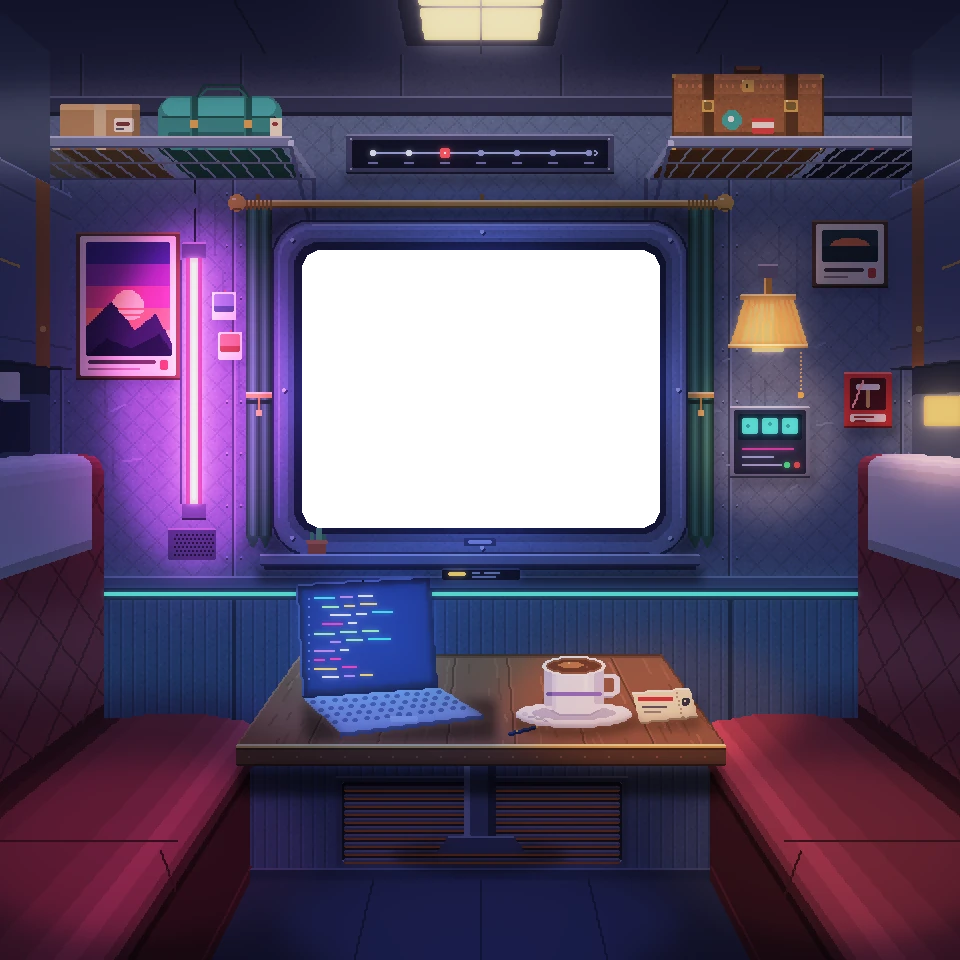
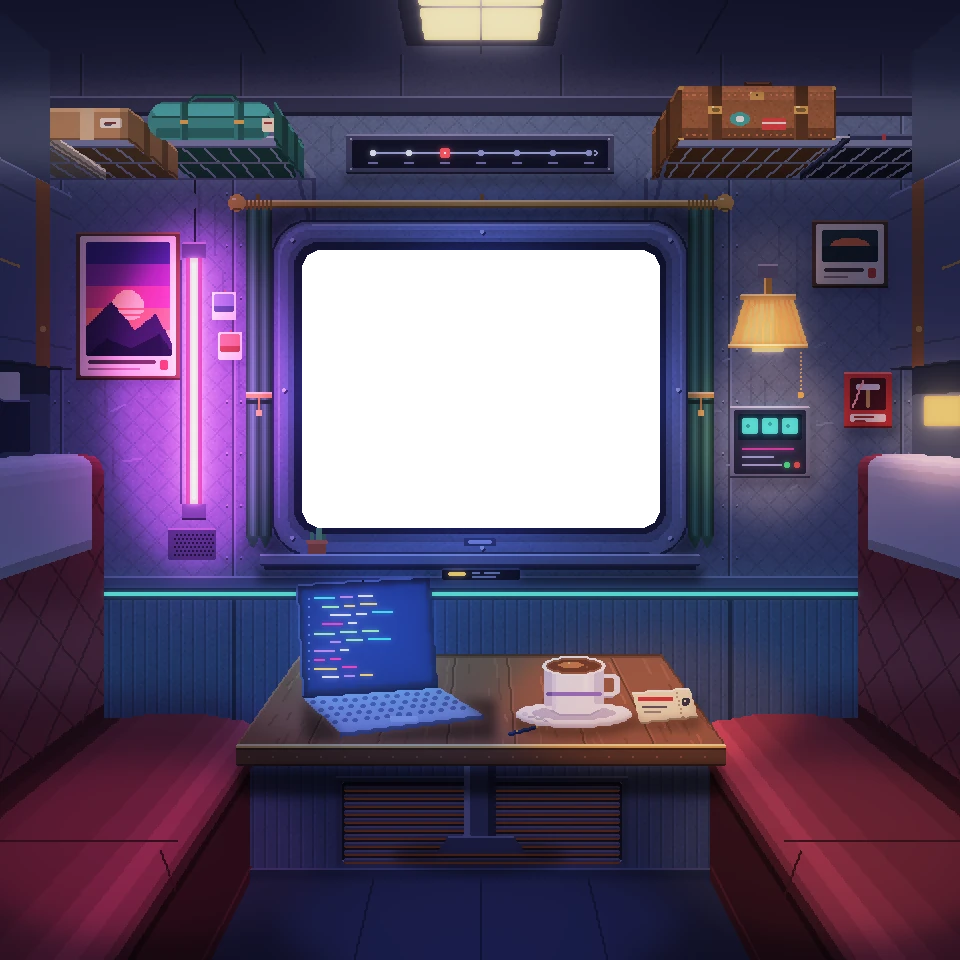
art(1.4): flatten the luggage, give it sides, keep the rack out of its sprite
Luggage laid on a rack is lower than it is wide. Each piece is now drawn at 68%
of the height it was written at, so all of it sits inside the frame.

Each piece gets the side that faces the middle of the compartment, running
back to the wall: its body colour in shade, a lit top edge, a dark foot and,
on the larger pieces, two bands carried round from the front. Until now only
fronts and undersides were drawn, which no solid object shows.

Focusing the briefcase lifted the rack's slats and rail with it, because they
were drawn across its foot and the sprite is cut from the finished picture.
The luggage now overhangs the front rail by a centimetre and the racks are
drawn before the luggage's visible faces, so nothing of the rack crosses a
piece and the briefcase's sprite is the briefcase alone, side included.

The canvas wrapper gains flatten() for the first of these.

Changed region(s): [[0.6562, 0.0625, 0.9375, 0.1875], [0.0312, 0.0938, 0.3438, 0.1875]]

diff --git a/src/scene/geometry.gen.ts b/src/scene/geometry.gen.ts
@@ -29,6 +29,6 @@ export const OBJECTS: Record<string, ObjectGeometry> = {
   cover: { zone: [142, 116, 338, 272], light: { x: 240, y: 194, rx: 108, ry: 84 } },
   projects: { zone: [137, 279, 252, 376], light: { x: 195, y: 328, rx: 62, ry: 52 }, box: { x: 148, y: 288, w: 94, h: 81 }, sprite: '/assets/obj-projects.webp' },
   about: { zone: [306, 336, 358, 370], light: { x: 332, y: 353, rx: 30, ry: 20 }, box: { x: 316, y: 344, w: 33, h: 18 }, sprite: '/assets/obj-about.webp' },
-  stack: { zone: [324.9162, 23.4303, 423.2402, 83.7655], light: { x: 374.0782, y: 55.8326, rx: 53.6313, ry: 31.2849 }, box: { x: 336, y: 33, w: 76, h: 42 }, sprite: '/assets/obj-stack.webp' },
+  stack: { zone: [327.8613, 16.9664, 429.5954, 79.3941], light: { x: 378.7283, y: 50.4924, rx: 55.4913, ry: 32.3699 }, box: { x: 326, y: 41, w: 92, h: 49 }, sprite: '/assets/obj-stack.webp' },
   journey: { zone: [166, 60, 300, 94], light: { x: 240, y: 77, rx: 78, ry: 18 }, box: { x: 173, y: 67, w: 134, h: 20 }, sprite: '/assets/obj-journey.webp' },
 };

diff --git a/tools/art/room.py b/tools/art/room.py
@@ -75,7 +75,8 @@ ROOM_CEILING = 2.30
 # above the window. Shallow enough to reach from the seat below.
 RACK_DEPTH = 0.26
 RACK_INNER = 0.46  # each rack runs from here to the side wall
-LUGGAGE_Z = WALL_DIST - 0.21  # the front of the luggage: it stands this far from the camera
+LUGGAGE_Z = WALL_DIST - RACK_DEPTH - 0.01  # the luggage's front: it overhangs the front rail a little
+LUGGAGE_FLAT = 0.68  # luggage lies flat on the rack: this much of the height it was written at
 
 
 def vanishing_point():
@@ -171,22 +172,32 @@ class Off:
     not, because they are not part of an object's outline. build.py turns the masks
     into the objects' sprites and bounding boxes."""
 
-    def __init__(self, cv, dx=0, dy=0, tag=None, masks=None, k=1.0):
-        self.cv, self.dx, self.dy, self.tag, self.k = cv, dx, dy, tag, k
+    def __init__(self, cv, dx=0, dy=0, tag=None, masks=None, k=1.0, flat=(1.0, 0)):
+        self.cv, self.dx, self.dy, self.tag, self.k, self.flat = cv, dx, dy, tag, k, flat
         self.masks = {} if masks is None else masks
 
     def at(self, dx, dy, tag=None):
         """The same canvas shifted by (dx, dy), recording into silhouette `tag`."""
-        return Off(self.cv, self.dx + dx, self.dy + dy, tag, self.masks, self.k)
+        return Off(self.cv, self.dx + dx, self.dy + dy, tag, self.masks, self.k, self.flat)
 
     def depth(self, z):
         """The same canvas for art standing z metres from the camera instead of
         on the window wall: everything is scaled about the vanishing point."""
-        return Off(self.cv, self.dx, self.dy, self.tag, self.masks, WALL_DIST / z)
+        return Off(self.cv, self.dx, self.dy, self.tag, self.masks, WALL_DIST / z, self.flat)
+
+    def flatten(self, f, foot):
+        """The same canvas with art squashed to f of its height toward the line
+        y = foot it stands on, in the coordinates the art was written in."""
+        return Off(self.cv, self.dx, self.dy, self.tag, self.masks, self.k, (f, foot))
+
+    @property
+    def plain(self):
+        return self.k == 1.0 and self.flat[0] == 1.0
 
     # ---- scene coordinates to canvas pixels
     def _xy(self, x, y):
-        x, y = x + self.dx, y + self.dy
+        f, foot = self.flat
+        x, y = x + self.dx, foot + (y - foot) * f + self.dy
         if self.k != 1.0:
             vx, vy = vanishing_point()
             x, y = vx + (x - vx) * self.k, vy + (y - vy) * self.k
@@ -194,14 +205,14 @@ class Off:
 
     def _r(self, x, y, w, h):
         """A rectangle as canvas x, y, w, h; whole pixels once scaled."""
-        if self.k == 1.0:
+        if self.plain:
             return (x + self.dx + OX, y + self.dy, w, h)
         (x0, y0), (x1, y1) = self._xy(x, y), self._xy(x + w, y + h)
         x0, y0, x1, y1 = round(x0), round(y0), round(x1), round(y1)
         return (x0, y0, max(1, x1 - x0) if w > 0 else 0, max(1, y1 - y0) if h > 0 else 0)
 
     def _p(self, pts):
-        if self.k == 1.0:
+        if self.plain:
             return [self._xy(x, y) for x, y in pts]
         return [tuple(round(v) for v in self._xy(x, y)) for x, y in pts]
 
@@ -441,13 +452,35 @@ def rack(g, rnd):
     # foot at y = 92; it is drawn LUGGAGE_Z from the camera instead, standing on
     # the rack, so it is scaled about the vanishing point and lifted to the
     # rack's level. From below, its underside shows between its front and the wall.
+    # It is also flattened: bags laid on a rack are lower than they are wide.
     D = WALL_DIST
-    lug = g.at(0, -3).depth(LUGGAGE_Z)
+    lug = g.flatten(LUGGAGE_FLAT, 92).at(0, -3).depth(LUGGAGE_Z)
     bx, rl, um = lug.at(24, 0), lug.at(22, 0), lug.at(2, 0)
-    for x0, x1, c in ((28, 52, (226, 222, 210)), (52, 88, (176, 138, 98)), (96, 151, (60, 140, 138)),
-                      (326, 394, (150, 96, 62)), (400, 448, (44, 50, 84))):
+    # x0, x1, height as written, colour, silhouette tag
+    pieces = ((28, 52, 6, (226, 222, 210), None), (52, 88, 20, (176, 138, 98), None), (96, 151, 24, (60, 140, 138), None),
+              (326, 394, 34, (150, 96, 62), 'stack'), (400, 448, 4, (44, 50, 84), None))
+    for x0, x1, h, c, tag in pieces:
         xa, xb = (x0 - 240) / WALL_SCALE, (x1 - 240) / WALL_SCALE
         quad(g, [(xa, RACK_Y, D), (xb, RACK_Y, D), (xb, RACK_Y, LUGGAGE_Z), (xa, RACK_Y, LUGGAGE_Z)], mul(c, 0.34))
+    # the racks go in before the luggage's visible faces: the luggage overhangs
+    # the front rail, so nothing of the rack crosses it, and an object's sprite
+    # is the object alone
+    rack_frame(g, -1)
+    rack_frame(g, 1)
+    # each piece's side that faces the middle of the compartment, running back
+    # to the wall: its body colour in shade, a lit top edge, and a band or two
+    # carried round from the front
+    for x0, x1, h, c, tag in pieces:
+        xs = (x1 if x1 < 240 else x0)
+        X, top = (xs - 240) / WALL_SCALE, RACK_Y + h * LUGGAGE_FLAT / WALL_SCALE
+        t = g.at(0, 0, tag) if tag else g
+        quad(t, [(X, RACK_Y, D), (X, top, D), (X, top, LUGGAGE_Z), (X, RACK_Y, LUGGAGE_Z)], mul(c, 0.6))
+        t.line([ri(P(X, top, D)), ri(P(X, top, LUGGAGE_Z))], mul(c, 0.95))
+        t.line([ri(P(X, RACK_Y + 0.004, D)), ri(P(X, RACK_Y + 0.004, LUGGAGE_Z))], mul(c, 0.4))
+        if h >= 20:
+            for f in (0.3, 0.7):
+                z = LUGGAGE_Z + (D - LUGGAGE_Z) * f
+                quad(t, [(X, RACK_Y, z), (X, top, z), (X, top, z + 0.025), (X, RACK_Y, z + 0.025)], mul(c, 0.42))
     # cardboard box
     bx.rect(28, 72, 36, 20, (176, 138, 98))
     bx.rect(28, 72, 36, 2, (210, 174, 130))
@@ -480,7 +513,7 @@ def rack(g, rnd):
     lug.rect(147, 80, 3, 1, (150, 60, 60))
     lug.px(148, 77, (40, 40, 56))
     # briefcase (the stack object)
-    o = place(g.depth(LUGGAGE_Z), 'stack', (318, 55))
+    o = place(g.flatten(LUGGAGE_FLAT, 92).depth(LUGGAGE_Z), 'stack', (318, 55))
     lb = (150, 96, 62)
     o.rect(318, 58, 68, 34, lb)
     o.rect(318, 58, 68, 3, mul(lb, 1.3))
@@ -516,8 +549,6 @@ def rack(g, rnd):
     um.rect(412, 88, 2, 4, (150, 60, 70))
     um.rect(394, 89, 4, 2, (160, 166, 190))
     um.line([(440, 89), (446, 89), (447, 86), (445, 84)], BRASS)
-    rack_frame(g, -1)
-    rack_frame(g, 1)
 
 
 def rack_frame(g, s):
